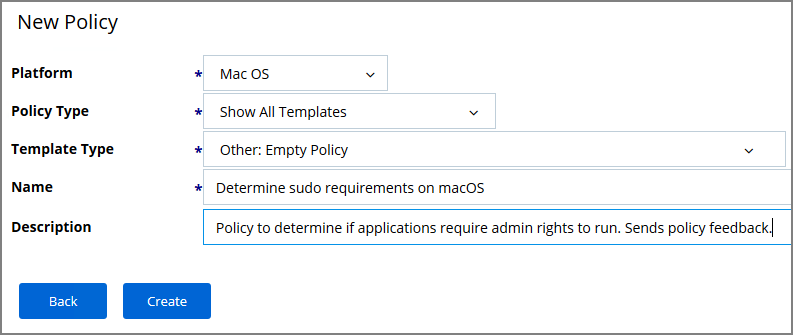
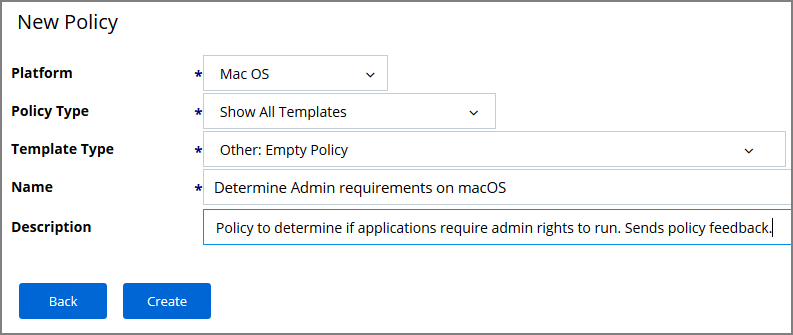
Review feedback fixes

Changed region(s): [[0.2724, 0.5373, 0.6356, 0.597]]

diff --git a/policies/mac-determ-admin.md b/policies/mac-determ-admin.md
@@ -1,7 +1,7 @@
-[title]: # (- Determine sudo Requirement)
-[tags]: # (macOS, admin, policy)
+[title]: # (- Determine Admin Requirement)
+[tags]: # (macOS,policy)
 [priority]: # (4810)
-# Determine sudo Requirement
+# Determine Admin Requirement
 
 Use discovery with event notification to determine if an application requires administrative privileges to run on a macOS endpoint.
 
